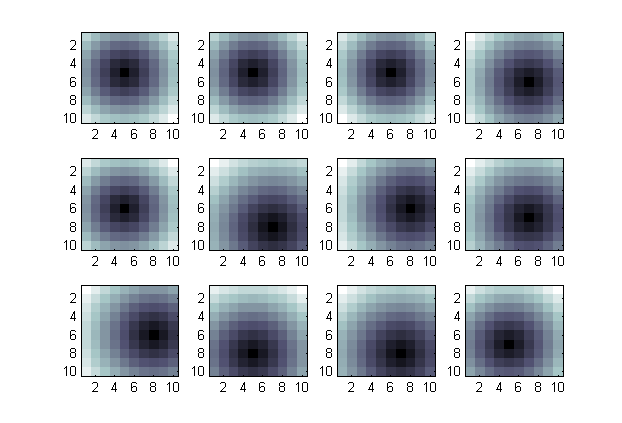
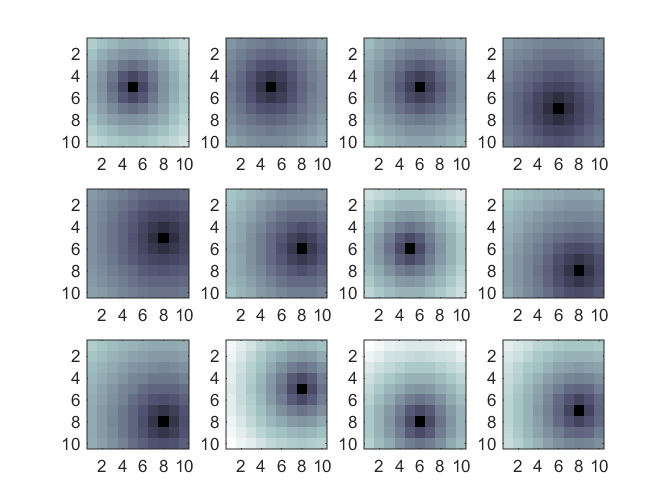
added penalties and got good results

diff --git a/testPatches.m b/testPatches.m
@@ -96,25 +96,33 @@ basePatch = patches{1};
 
 nImages = length(patches);
 emdDists = zeros(1,nImages);
+emdDistsWithPenalty = zeros(1,nImages);
+emdDistsWithPenSquared = zeros(1,nImages);
 curMaxPixel = 0;
-alpha1 = 1e-4;
-alpha2 = 1e-8;
+%alpha1 = 1e-4;
+alpha1 = 1;
+%alpha2 = 1e-8;
+alpha2 = 1;
 for i = 1:nImages
     curPatch = patches{i};
     curMaxPixel = max(max(max(curPatch)),curMaxPixel);
     [weight,pixelLocs] = getFeatureWeight(curPatch);
-    [~,f] = emd(pixelLocs,basePixelLocs,weight,baseWeight,@getPixelDist);
+    [xVals,f] = emd(pixelLocs,basePixelLocs,weight,baseWeight,@getPixelDist);
     
     %approach where we add alpha(x - x^)
-    %f = f + alpha1*abs(sum(sum(curPatchResized)) - sum(sum(basePatchResized)));
+    f1 = f + (alpha1/sum(xVals))*abs(sum(sum(curPatch)) - sum(sum(basePatch)));
     
     %approach where ad add alpha*(x-x^)^2
-    %f = f + alpha2*(sum(sum(curPatchResized)) - sum(sum(basePatchResized)))^2;
+    f2 = f + (alpha2/sum(xVals))*(sum(sum(curPatch)) - sum(sum(basePatch)))^2;
     f
     emdDists(i) = f;
+    emdDistsWithPenSquared(i) = f2;
+    emdDistsWithPenalty(i) = f1;
 end
 
 [~,bestIndices] = sort(emdDists);
+[~,bestIndicesPen] = sort(emdDistsWithPenalty);
+[~,bestIndicesPenSqu] = sort(emdDistsWithPenSquared);
 
 %%
 
@@ -130,12 +138,9 @@ load('goodEMDResults2.mat');
 
 numPatches = length(patches);
 
-figure
-colormap bone;
-colorbar;
-for k = 1:numPatches
-   subplot(3,4,k);
-   imagesc(patches{bestIndices(k)})
+maxPixel = 0;
+for k = 1:length(patches)
+   maxPixel = max( max(max(patches{k})) , maxPixel); 
 end
 
 figure
@@ -143,5 +148,29 @@ colormap bone;
 colorbar;
 for k = 1:numPatches
    subplot(3,4,k);
-   imagesc(patches{indices(k)})
+   imagesc(patches{indices(k)}, [0 maxPixel])
+end
+
+figure
+colormap bone;
+colorbar;
+for k = 1:numPatches
+   subplot(3,4,k);
+   imagesc(patches{bestIndices(k)}, [0 maxPixel])
+end
+
+figure
+colormap bone;
+colorbar;
+for k = 1:numPatches
+   subplot(3,4,k);
+   imagesc(patches{bestIndicesPen(k)}, [0 maxPixel])
+end
+
+figure
+colormap bone;
+colorbar;
+for k = 1:numPatches
+   subplot(3,4,k);
+   imagesc(patches{bestIndicesPenSqu(k)}, [0 maxPixel])
 end
